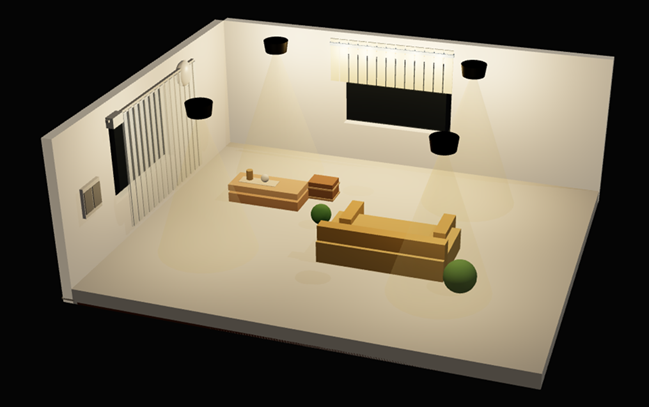
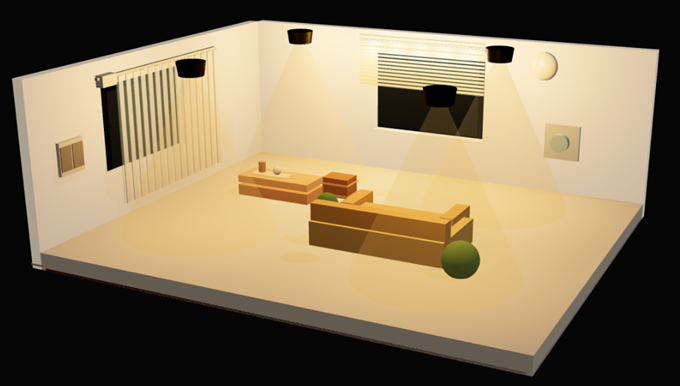
update for sunstar6

diff --git a/academy-business.html b/academy-business.html
@@ -31,7 +31,7 @@
     <nav class="nav"><div class="container"><a href="index.html" class="nav-logo">Sun<b>star</b></a><ul class="nav-menu" id="navMenu"><li><a href="index.html">회사소개</a></li><li><a href="sotolab.html">SotoLAB</a></li><li><a href="academy.html" class="active">아카데미</a></li></ul></div></nav>
     <section class="page-header"><div class="container"><div class="breadcrumb"><a href="index.html"><i class="fas fa-home"></i> Home</a><span>/</span><a href="academy.html">아카데미</a><span>/</span><span>IoT 사업자 교육</span></div><h1 class="page-title">IoT 사업자 교육</h1><p class="page-description">실제 사업 적용과 제안, 현장 설명, 시뮬레이터 활용까지 고려한 사업자 대상 창업 교육입니다.</p></div></section>
     <section class="philosophy-section"><div class="container"><div class="split-hero academy-split-hero"><div><span class="section-label">Business Course</span><h2 class="section-title">제안과 적용까지 함께 보는 사업자 대상 창업 교육</h2><p class="section-description">제품 이해에서 끝나지 않고, 설명, 제안, 시공 적용 관점과 시뮬레이터 활용까지 함께 정리하는 창업 과정입니다.</p><div class="academy-summary"><div class="academy-summary-item"><span>과정명</span><strong>IoT 사업자 교육</strong></div><div class="academy-summary-item"><span>시간</span><strong>14시간</strong></div><div class="academy-summary-item"><span>비용</span><strong>160만원</strong></div><div class="academy-summary-item"><span>구분</span><strong>창업과정</strong></div></div></div><div class="academy-hero-visual"><img src="img/academy-business-hero-generated.png" alt="IoT 사업자 교육 소개 이미지"><div class="academy-hero-caption"><strong>제안형 사업자 교육</strong><span>제품 이해부터 공간 제안, 설명 포인트 정리까지 연결하는 창업 과정입니다.</span></div></div></div></div></section>
-    <section class="online-course-section"><div class="container"><div class="lecture-blocks"><article class="lecture-block"><div class="lecture-top"><div><span class="course-category">Overview</span><h3 class="lecture-title">이 과정의 목적</h3></div><div class="lecture-meta"><strong>14H</strong><span>창업 과정</span></div></div><p class="lecture-summary">스마트홈키트뿐 아니라 매립조명, 간접조명, 조명 스위치, AI 센서까지 다루며 사업 현장에서 설명하고 제안할 수 있는 이해 수준을 만드는 데 초점을 둡니다. 여기에 시뮬레이터 화면을 함께 보며 공간 적용 이미지를 설명할 수 있는 감각까지 키웁니다.</p><div class="lecture-grid"><div class="lecture-item"><h4>추천 대상</h4><p>시공사, 사업자, 제안 담당자, 실무 적용 판단이 필요한 관리자</p></div><div class="lecture-item"><h4>진행 방식</h4><p>제품 구조 설명, 장치별 실습, 시뮬레이터 확인, 적용 시나리오 정리 순서로 진행</p></div><div class="lecture-item"><h4>기대 결과</h4><p>고객 설명과 내부 판단에 필요한 기술적 이해, 공간 적용 감각, 제안 흐름 확보</p></div><div class="lecture-item"><h4>활용 장면</h4><p>제안 미팅, 제품 설명, 사업 기획, 시공 적용 검토</p></div></div></article><article class="lecture-block"><div class="lecture-top"><div><span class="course-category">Curriculum</span><h3 class="lecture-title">주요 커리큘럼</h3></div><div class="lecture-meta"><strong>PRO</strong><span>창업 적용 중심</span></div></div><div class="academy-curriculum"><div class="academy-curriculum-step"><strong>1. 제품 이해</strong><p>장비별 역할과 적용 구조를 폭넓게 이해합니다.</p></div><div class="academy-curriculum-step"><strong>2. 조명/센서 실습</strong><p>조명과 센서를 연결하고 제어 흐름을 실습합니다.</p></div><div class="academy-curriculum-step"><strong>3. 시뮬레이터 설명 포인트</strong><p>평면도와 3D 화면을 활용해 고객이나 내부 팀에게 공간 적용 구조를 설명하는 방법을 익힙니다.</p></div><div class="academy-curriculum-step"><strong>4. 사업 적용</strong><p>제안, 설명, 시공 적용 관점에서 실제 활용 방향을 정리합니다.</p></div></div></article><article class="lecture-block"><div class="lecture-top"><div><span class="course-category">Simulator</span><h3 class="lecture-title">시뮬레이터 활용 안내</h3></div><div class="lecture-meta"><strong>SIM</strong><span>설명과 제안 보조</span></div></div><p class="lecture-summary">시뮬레이터는 제품을 나열해서 설명하는 수준을 넘어, 공간 안에서 장치가 어떻게 배치되고 작동하는지 시각적으로 설명할 수 있게 도와주는 도구입니다. 사업자 교육에서는 이 화면을 활용해 제안력과 설명력을 함께 높이는 데 초점을 둡니다.</p><div class="academy-simulator-grid"><div class="academy-simulator-card"><div class="academy-simulator-image"><img src="img/academy-simulator-plan.png" alt="IoT 시뮬레이터 평면도 화면"></div><div class="academy-simulator-copy"><h4>평면도 화면</h4><p>공간 구조와 장치 구성을 한눈에 보여주며 고객 설명과 내부 검토에 활용할 수 있습니다.</p></div></div><div class="academy-simulator-card"><div class="academy-simulator-image"><img src="img/academy-simulator-3d.png" alt="IoT 시뮬레이터 3D 공간 화면"></div><div class="academy-simulator-copy"><h4>3D 공간 화면</h4><p>조명 연출과 적용 이미지를 입체적으로 보여줘 제안의 설득력을 높이는 데 도움이 됩니다.</p></div></div></div></article></div></div></section>
+    <section class="online-course-section"><div class="container"><div class="lecture-blocks"><article class="lecture-block"><div class="lecture-top"><div><span class="course-category">Overview</span><h3 class="lecture-title">이 과정의 목적</h3></div><div class="lecture-meta"><strong>14H</strong><span>창업 과정</span></div></div><p class="lecture-summary">스마트홈키트뿐 아니라 매립조명, 간접조명, 조명 스위치, AI 센서까지 다루며 사업 현장에서 설명하고 제안할 수 있는 이해 수준을 만드는 데 초점을 둡니다. 여기에 시뮬레이터 화면을 함께 보며 공간 적용 이미지를 설명할 수 있는 감각까지 키웁니다.</p><div class="lecture-grid"><div class="lecture-item"><h4>추천 대상</h4><p>시공사, 사업자, 제안 담당자, 실무 적용 판단이 필요한 관리자</p></div><div class="lecture-item"><h4>진행 방식</h4><p>제품 구조 설명, 장치별 실습, 시뮬레이터 확인, 적용 시나리오 정리 순서로 진행</p></div><div class="lecture-item"><h4>기대 결과</h4><p>고객 설명과 내부 판단에 필요한 기술적 이해, 공간 적용 감각, 제안 흐름 확보</p></div><div class="lecture-item"><h4>활용 장면</h4><p>제안 미팅, 제품 설명, 사업 기획, 시공 적용 검토</p></div></div></article><article class="lecture-block"><div class="lecture-top"><div><span class="course-category">Curriculum</span><h3 class="lecture-title">주요 커리큘럼</h3></div><div class="lecture-meta"><strong>PRO</strong><span>창업 적용 중심</span></div></div><div class="academy-curriculum"><div class="academy-curriculum-step"><strong>1. 제품 이해</strong><p>장비별 역할과 적용 구조를 폭넓게 이해합니다.</p></div><div class="academy-curriculum-step"><strong>2. 조명/센서 실습</strong><p>조명과 센서를 연결하고 제어 흐름을 실습합니다.</p></div><div class="academy-curriculum-step"><strong>3. 시뮬레이터 설명 포인트</strong><p>평면도와 3D 화면을 활용해 고객이나 내부 팀에게 공간 적용 구조를 설명하는 방법을 익힙니다.</p></div><div class="academy-curriculum-step"><strong>4. 사업 적용</strong><p>제안, 설명, 시공 적용 관점에서 실제 활용 방향을 정리합니다.</p></div></div></article><article class="lecture-block"><div class="lecture-top"><div><span class="course-category">Simulator</span><h3 class="lecture-title">시뮬레이터 활용 안내</h3></div><div class="lecture-meta"><strong>SIM</strong><span>설명과 제안 보조</span></div></div><p class="lecture-summary">시뮬레이터는 제품을 나열해서 설명하는 수준을 넘어, 공간 안에서 장치가 어떻게 배치되고 작동하는지 시각적으로 설명할 수 있게 도와주는 도구입니다. 사업자 교육에서는 이 화면을 활용해 제안력과 설명력을 함께 높이는 데 초점을 둡니다.</p><div class="academy-simulator-grid"><div class="academy-simulator-card"><div class="academy-simulator-image"><img src="img/academy-simulator-plan.png" alt="IoT 시뮬레이터 평면도 화면"></div><div class="academy-simulator-copy"><h4>평면도 화면</h4><p>공간 구조와 장치 구성을 한눈에 보여주며 고객 설명과 내부 검토에 활용할 수 있습니다.</p></div></div><div class="academy-simulator-card"><div class="academy-simulator-image"><img src="img/academy-simulator-3d.png" alt="IoT 시뮬레이터 3D 공간 화면"></div><div class="academy-simulator-copy"><h4>3D 공간 화면</h4><p>조명 연출과 적용 이미지를 입체적으로 보여줘 제안의 설득력을 높이는 데 도움이 됩니다.</p></div></div><div class="academy-simulator-card"><div class="academy-simulator-image"><img src="img/academy-simulator-3d-alt.png" alt="IoT 시뮬레이터 3D 공간 정면 화면"></div><div class="academy-simulator-copy"><h4>3D 정면 화면</h4><p>정면 시점에서 공간 전체 구성과 조명 효과를 보여줘 제안 설명의 설득력을 높여줍니다.</p></div></div><div class="academy-simulator-card"><div class="academy-simulator-image"><img src="img/academy-simulator-lighting-example.png" alt="IoT 시뮬레이터 색온도와 밝기 조절 예시 화면"></div><div class="academy-simulator-copy"><h4>색온도·밝기 조절 예시</h4><p>조명의 밝기와 색온도를 어떻게 조절할 수 있는지 예시로 보여주며, 공간 연출 설명을 더 설득력 있게 도와줍니다.</p></div></div></div></article></div></div></section>
     <section class="reviews-section"><div class="container"><div class="section-header"><span class="section-label">Review</span><h2 class="section-title">먼저 교육을 수강하신 분 후기</h2><p class="section-description">사업자 과정은 제품 이해를 넘어 설명, 제안, 적용 관점까지 함께 다루기 때문에 실무 활용도가 높다는 후기가 많습니다.</p></div><div class="course-grid"><article class="review-card compact featured"><div class="review-header"><div class="review-avatar">A</div><div class="review-meta"><strong>시공사 대표</strong><p>창업 준비 후기</p></div><span class="review-badge review-stars" aria-label="5점 만점">★★★★★</span></div><p class="review-summary">제품만 아는 수준에서 벗어나 실제로 어떻게 설명하고 제안해야 하는지 흐름이 잡혔습니다. 단순 교육이 아니라 사업 관점으로 정리해줘서 훨씬 도움이 됐습니다.</p></article><article class="review-card compact"><div class="review-header"><div class="review-avatar">B</div><div class="review-meta"><strong>제안 담당자</strong><p>고객 설명 목적 수강</p></div><span class="review-badge review-stars" aria-label="5점 만점">★★★★★</span></div><p class="review-summary">시뮬레이터 화면을 함께 보며 설명하는 방식이 특히 인상적이었습니다. 고객에게 공간 적용 이미지를 보여주며 이야기할 수 있는 감각이 생겼습니다.</p></article><article class="review-card compact"><div class="review-header"><div class="review-avatar">C</div><div class="review-meta"><strong>사업 운영 관리자</strong><p>내부 검토 기준 수립</p></div><span class="review-badge review-stars" aria-label="5점 만점">★★★★★</span></div><p class="review-summary">장치별 기능 설명만이 아니라 어떤 방식으로 적용 판단을 해야 하는지까지 정리돼서 좋았습니다. 내부 팀과 논의할 기준이 훨씬 선명해졌습니다.</p></article><article class="review-card compact"><div class="review-header"><div class="review-avatar">D</div><div class="review-meta"><strong>창업 준비자</strong><p>비전공 수강 후기</p></div><span class="review-badge review-stars" aria-label="5점 만점">★★★★★</span></div><p class="review-summary">처음엔 어렵게 느껴졌지만, 제품 실습과 시뮬레이터 설명이 같이 가니까 이해가 훨씬 쉬웠습니다. 실제 사업 설명을 어떻게 해야 할지 감이 생겼습니다.</p></article></div></div></section>
     <section class="faq-section"><div class="container"><div class="section-header"><span class="section-label">FAQ</span><h2 class="section-title">자주 묻는 질문</h2><p class="section-description">사업자 과정 상담 전에 가장 많이 확인하시는 내용을 먼저 정리했습니다.</p></div><div class="faq-list"><div class="faq-item"><button class="faq-question" type="button" aria-expanded="true"><span>비전공자도 창업 과정 수강이 가능한가요?</span><i class="fas fa-plus"></i></button><div class="faq-answer"><p>가능합니다. 기술 설명을 어렵게 풀기보다, 제품 이해와 제안 흐름을 실제 사업 관점에서 연결해드리는 방식으로 진행합니다.</p></div></div><div class="faq-item"><button class="faq-question" type="button" aria-expanded="true"><span>이 과정은 창업 준비 단계에서도 도움이 되나요?</span><i class="fas fa-plus"></i></button><div class="faq-answer"><p>네. 어떤 장치를 어떤 방식으로 이해하고 설명해야 하는지 기준을 잡는 데 도움이 됩니다. 제품 나열이 아니라 제안 흐름을 정리하는 데 초점이 있습니다.</p></div></div><div class="faq-item"><button class="faq-question" type="button" aria-expanded="true"><span>시뮬레이터는 사업자 교육에서 어떻게 활용되나요?</span><i class="fas fa-plus"></i></button><div class="faq-answer"><p>평면도와 3D 화면을 통해 공간 안에서 장치가 어떻게 적용되는지 보여주는 설명 도구로 활용합니다. 고객 제안이나 내부 검토 시 설득력을 높이는 데 효과적입니다.</p></div></div><div class="faq-item"><button class="faq-question" type="button" aria-expanded="true"><span>조명과 센서까지 실제로 다뤄보나요?</span><i class="fas fa-plus"></i></button><div class="faq-answer"><p>네. 스마트홈키트뿐 아니라 매립조명, 간접조명, 조명 스위치, AI 센서까지 포함해 실습과 설명 포인트를 함께 다룹니다.</p></div></div></div></div></section>
     <section class="cta-banner"><div class="container"><div class="cta-inline"><div><h3>사업 적용까지 함께 봐야 하나요?</h3><p>문의하시면 사업자 교육이 맞는지, 어떤 대상자부터 들으면 좋을지 바로 정리해드립니다.</p></div><a href="https://open.kakao.com/o/sK8hYXfb" class="btn btn-primary" target="_blank" rel="noopener noreferrer">문의하기</a></div></div></section>

diff --git a/academy-visit.html b/academy-visit.html
@@ -31,7 +31,7 @@
     <nav class="nav"><div class="container"><a href="index.html" class="nav-logo">Sun<b>star</b></a><ul class="nav-menu" id="navMenu"><li><a href="index.html">회사소개</a></li><li><a href="sotolab.html">SotoLAB</a></li><li><a href="academy.html" class="active">아카데미</a></li></ul></div></nav>
     <section class="page-header"><div class="container"><div class="breadcrumb"><a href="index.html"><i class="fas fa-home"></i> Home</a><span>/</span><a href="academy.html">아카데미</a><span>/</span><span>IoT 방문 교육</span></div><h1 class="page-title">IoT 방문 교육</h1><p class="page-description">사업장에 설치된 실제 장치를 중심으로 배우고, 시뮬레이터로 공간 구성까지 함께 확인하는 방문형 교육입니다.</p></div></section>
     <section class="philosophy-section"><div class="container"><div class="split-hero academy-split-hero"><div><span class="section-label">Visit Course</span><h2 class="section-title">설치된 현장을 기준으로 바로 이해하는 방문 교육</h2><p class="section-description">사업장에 설치된 장치를 중심으로 교육을 진행해 이해 속도가 빠르고, 시뮬레이터 화면으로 공간 구성과 적용 방향까지 함께 정리할 수 있습니다.</p><div class="academy-summary"><div class="academy-summary-item"><span>과정명</span><strong>IoT 방문 교육</strong></div><div class="academy-summary-item"><span>시간</span><strong>6시간</strong></div><div class="academy-summary-item"><span>비용</span><strong>90만원</strong></div><div class="academy-summary-item"><span>구분</span><strong>컨설팅 포함</strong></div></div></div><div class="academy-hero-visual"><img src="img/academy-visit-hero-generated.png" alt="IoT 방문 교육 소개 이미지"><div class="academy-hero-caption"><strong>현장 중심 방문 교육</strong><span>설치된 장치를 기준으로 실제 운영 흐름과 공간 적용을 바로 이해하는 과정입니다.</span></div></div></div></div></section>
-    <section class="online-course-section"><div class="container"><div class="lecture-blocks"><article class="lecture-block"><div class="lecture-top"><div><span class="course-category">Overview</span><h3 class="lecture-title">이 과정이 필요한 경우</h3></div><div class="lecture-meta"><strong>6H</strong><span>현장 방문 진행</span></div></div><p class="lecture-summary">이미 설치된 장치를 기준으로 직원 교육이나 운영 점검이 필요한 경우에 적합합니다. 현장 환경에서 바로 설명하고 질문할 수 있어 실제 이해와 적용 속도가 빨라지며, 시뮬레이터로 공간 구성을 함께 보면 팀의 공통 이해를 더 빠르게 맞출 수 있습니다.</p><div class="lecture-grid"><div class="lecture-item"><h4>추천 대상</h4><p>현장 운영자, 관리자, 설치 장치 이해가 필요한 실무 담당자</p></div><div class="lecture-item"><h4>진행 방식</h4><p>현장 방문 후 장치 구성 점검, 제어 설명, 시뮬레이터 확인, 실사용 기준 컨설팅 진행</p></div><div class="lecture-item"><h4>기대 결과</h4><p>현재 설치된 장비의 구조와 운영 흐름, 공간 적용 이미지를 팀이 공통으로 이해</p></div><div class="lecture-item"><h4>활용 장면</h4><p>현장 교육, 운영 인수인계, 장비 사용 안정화, 개선 상담</p></div></div></article><article class="lecture-block"><div class="lecture-top"><div><span class="course-category">Curriculum</span><h3 class="lecture-title">주요 커리큘럼</h3></div><div class="lecture-meta"><strong>FIELD</strong><span>현장 기준 설명</span></div></div><div class="academy-curriculum"><div class="academy-curriculum-step"><strong>1. 현장 장치 이해</strong><p>설치 장치 구성과 연결 구조를 현장에서 직접 확인합니다.</p></div><div class="academy-curriculum-step"><strong>2. 제어 점검</strong><p>실제 운영 기준의 제어 방식과 사용 흐름을 함께 점검합니다.</p></div><div class="academy-curriculum-step"><strong>3. 시뮬레이터 확인</strong><p>평면 구조와 3D 공간 화면을 보며 장치가 공간 안에서 어떻게 적용되는지 함께 이해합니다.</p></div><div class="academy-curriculum-step"><strong>4. 현장 컨설팅</strong><p>개선 포인트와 적용 방향을 상담 형태로 함께 정리합니다.</p></div></div></article><article class="lecture-block"><div class="lecture-top"><div><span class="course-category">Simulator</span><h3 class="lecture-title">시뮬레이터 활용 안내</h3></div><div class="lecture-meta"><strong>SIM</strong><span>공간 이해 보조</span></div></div><p class="lecture-summary">시뮬레이터는 현장 장치를 단순히 설명하는 데서 끝나지 않고, 실제 공간 안에서 어떻게 배치되고 적용되는지를 시각적으로 이해하도록 도와주는 보조 도구입니다.</p><div class="academy-simulator-grid"><div class="academy-simulator-card"><div class="academy-simulator-image"><img src="img/academy-simulator-plan.png" alt="IoT 시뮬레이터 평면도 화면"></div><div class="academy-simulator-copy"><h4>평면도 화면</h4><p>방, 복도, 거실, 주방 등 공간 구조를 기준으로 장치 배치와 제어 구성을 함께 이해할 수 있습니다.</p></div></div><div class="academy-simulator-card"><div class="academy-simulator-image"><img src="img/academy-simulator-3d.png" alt="IoT 시뮬레이터 3D 공간 화면"></div><div class="academy-simulator-copy"><h4>3D 공간 화면</h4><p>실제 공간 느낌으로 조명과 장치 반응을 확인해 현장 설명과 적용 감각을 높여줍니다.</p></div></div></div></article></div></div></section>
+    <section class="online-course-section"><div class="container"><div class="lecture-blocks"><article class="lecture-block"><div class="lecture-top"><div><span class="course-category">Overview</span><h3 class="lecture-title">이 과정이 필요한 경우</h3></div><div class="lecture-meta"><strong>6H</strong><span>현장 방문 진행</span></div></div><p class="lecture-summary">이미 설치된 장치를 기준으로 직원 교육이나 운영 점검이 필요한 경우에 적합합니다. 현장 환경에서 바로 설명하고 질문할 수 있어 실제 이해와 적용 속도가 빨라지며, 시뮬레이터로 공간 구성을 함께 보면 팀의 공통 이해를 더 빠르게 맞출 수 있습니다.</p><div class="lecture-grid"><div class="lecture-item"><h4>추천 대상</h4><p>현장 운영자, 관리자, 설치 장치 이해가 필요한 실무 담당자</p></div><div class="lecture-item"><h4>진행 방식</h4><p>현장 방문 후 장치 구성 점검, 제어 설명, 시뮬레이터 확인, 실사용 기준 컨설팅 진행</p></div><div class="lecture-item"><h4>기대 결과</h4><p>현재 설치된 장비의 구조와 운영 흐름, 공간 적용 이미지를 팀이 공통으로 이해</p></div><div class="lecture-item"><h4>활용 장면</h4><p>현장 교육, 운영 인수인계, 장비 사용 안정화, 개선 상담</p></div></div></article><article class="lecture-block"><div class="lecture-top"><div><span class="course-category">Curriculum</span><h3 class="lecture-title">주요 커리큘럼</h3></div><div class="lecture-meta"><strong>FIELD</strong><span>현장 기준 설명</span></div></div><div class="academy-curriculum"><div class="academy-curriculum-step"><strong>1. 현장 장치 이해</strong><p>설치 장치 구성과 연결 구조를 현장에서 직접 확인합니다.</p></div><div class="academy-curriculum-step"><strong>2. 제어 점검</strong><p>실제 운영 기준의 제어 방식과 사용 흐름을 함께 점검합니다.</p></div><div class="academy-curriculum-step"><strong>3. 시뮬레이터 확인</strong><p>평면 구조와 3D 공간 화면을 보며 장치가 공간 안에서 어떻게 적용되는지 함께 이해합니다.</p></div><div class="academy-curriculum-step"><strong>4. 현장 컨설팅</strong><p>개선 포인트와 적용 방향을 상담 형태로 함께 정리합니다.</p></div></div></article><article class="lecture-block"><div class="lecture-top"><div><span class="course-category">Simulator</span><h3 class="lecture-title">시뮬레이터 활용 안내</h3></div><div class="lecture-meta"><strong>SIM</strong><span>공간 이해 보조</span></div></div><p class="lecture-summary">시뮬레이터는 현장 장치를 단순히 설명하는 데서 끝나지 않고, 실제 공간 안에서 어떻게 배치되고 적용되는지를 시각적으로 이해하도록 도와주는 보조 도구입니다.</p><div class="academy-simulator-grid"><div class="academy-simulator-card"><div class="academy-simulator-image"><img src="img/academy-simulator-plan.png" alt="IoT 시뮬레이터 평면도 화면"></div><div class="academy-simulator-copy"><h4>평면도 화면</h4><p>방, 복도, 거실, 주방 등 공간 구조를 기준으로 장치 배치와 제어 구성을 함께 이해할 수 있습니다.</p></div></div><div class="academy-simulator-card"><div class="academy-simulator-image"><img src="img/academy-simulator-3d.png" alt="IoT 시뮬레이터 3D 공간 화면"></div><div class="academy-simulator-copy"><h4>3D 공간 화면</h4><p>실제 공간 느낌으로 조명과 장치 반응을 확인해 현장 설명과 적용 감각을 높여줍니다.</p></div></div><div class="academy-simulator-card"><div class="academy-simulator-image"><img src="img/academy-simulator-3d-alt.png" alt="IoT 시뮬레이터 3D 공간 정면 화면"></div><div class="academy-simulator-copy"><h4>3D 정면 화면</h4><p>정면 각도에서 공간과 조명 연출을 함께 보며 현장 설명의 이해도를 더 높일 수 있습니다.</p></div></div><div class="academy-simulator-card"><div class="academy-simulator-image"><img src="img/academy-simulator-lighting-example.png" alt="IoT 시뮬레이터 색온도와 밝기 조절 예시 화면"></div><div class="academy-simulator-copy"><h4>색온도·밝기 조절 예시</h4><p>밝기와 색온도를 바꿨을 때 같은 공간이 어떻게 다르게 느껴지는지 시각적으로 비교하며 설명할 수 있습니다.</p></div></div></div></article></div></div></section>
     <section class="reviews-section"><div class="container"><div class="section-header"><span class="section-label">Review</span><h2 class="section-title">먼저 교육을 수강하신 분 후기</h2><p class="section-description">방문 교육은 실제 설치 환경을 기준으로 진행되기 때문에, 설명이 바로 현장에 연결된다는 점에서 만족도가 높습니다.</p></div><div class="course-grid"><article class="review-card compact featured"><div class="review-header"><div class="review-avatar">A</div><div class="review-meta"><strong>현장 운영 관리자</strong><p>운영 인수인계 후기</p></div><span class="review-badge review-stars" aria-label="5점 만점">★★★★★</span></div><p class="review-summary">설치된 장치를 현장에서 바로 보면서 설명을 들으니 훨씬 이해가 빨랐습니다. 직원들끼리 다르게 알고 있던 사용 기준도 한 번에 정리됐습니다.</p></article><article class="review-card compact"><div class="review-header"><div class="review-avatar">B</div><div class="review-meta"><strong>시설 담당자</strong><p>장치 이해 목적 수강</p></div><span class="review-badge review-stars" aria-label="5점 만점">★★★★★</span></div><p class="review-summary">문서로만 봤을 때는 헷갈렸던 부분을 실제 장치 기준으로 짚어줘서 좋았습니다. 시뮬레이터 화면까지 같이 보니 공간 전체 흐름이 더 잘 보였습니다.</p></article><article class="review-card compact"><div class="review-header"><div class="review-avatar">C</div><div class="review-meta"><strong>대표</strong><p>현장 점검 겸 수강</p></div><span class="review-badge review-stars" aria-label="5점 만점">★★★★★</span></div><p class="review-summary">교육과 컨설팅이 같이 진행돼서 단순 설명으로 끝나지 않았습니다. 현재 상태에서 무엇을 더 정리해야 할지도 함께 볼 수 있어 실용적이었습니다.</p></article><article class="review-card compact"><div class="review-header"><div class="review-avatar">D</div><div class="review-meta"><strong>설치 실무 담당자</strong><p>실사용 기준 후기</p></div><span class="review-badge review-stars" aria-label="5점 만점">★★★★★</span></div><p class="review-summary">현장 기준으로 바로 질문하고 답을 들을 수 있어 답답함이 없었습니다. 실제 운영 흐름과 설명 포인트를 함께 정리할 수 있어 도움이 됐습니다.</p></article></div></div></section>
     <section class="faq-section"><div class="container"><div class="section-header"><span class="section-label">FAQ</span><h2 class="section-title">자주 묻는 질문</h2><p class="section-description">방문 교육 상담 전에 가장 많이 확인하시는 내용을 먼저 정리했습니다.</p></div><div class="faq-list"><div class="faq-item"><button class="faq-question" type="button" aria-expanded="true"><span>반드시 현장에 설치된 장치가 있어야 하나요?</span><i class="fas fa-plus"></i></button><div class="faq-answer"><p>설치된 장치가 있는 경우 가장 효과적입니다. 다만 현재 준비 상태에 따라 어떤 과정이 더 적합한지 상담 후 조정할 수 있습니다.</p></div></div><div class="faq-item"><button class="faq-question" type="button" aria-expanded="true"><span>방문 교육은 어떤 점이 가장 다른가요?</span><i class="fas fa-plus"></i></button><div class="faq-answer"><p>실제 사업장 환경에서 바로 설명하고 점검할 수 있다는 점이 가장 큰 차이입니다. 문서나 이론보다 훨씬 빠르게 공통 이해를 맞출 수 있습니다.</p></div></div><div class="faq-item"><button class="faq-question" type="button" aria-expanded="true"><span>시뮬레이터는 방문 교육에서 어떻게 활용되나요?</span><i class="fas fa-plus"></i></button><div class="faq-answer"><p>평면도와 3D 화면을 함께 보며 장치가 공간 안에서 어떤 구조로 적용되는지 설명하는 데 활용합니다. 팀 내 이해를 맞추는 데 특히 효과적입니다.</p></div></div><div class="faq-item"><button class="faq-question" type="button" aria-expanded="true"><span>컨설팅은 어디까지 포함되나요?</span><i class="fas fa-plus"></i></button><div class="faq-answer"><p>현재 설치 장치의 이해, 운영 흐름 점검, 개선 포인트 정리까지 포함됩니다. 보다 깊은 프로젝트 범위는 별도 상담을 통해 조율합니다.</p></div></div></div></div></section>
     <section class="cta-banner"><div class="container"><div class="cta-inline"><div><h3>현장 기준 교육이 필요한가요?</h3><p>문의하시면 방문 교육 가능 범위와 일정부터 현실적으로 정리해드립니다.</p></div><a href="https://open.kakao.com/o/sK8hYXfb" class="btn btn-primary" target="_blank" rel="noopener noreferrer">문의하기</a></div></div></section>

diff --git a/academy-special.html b/academy-special.html
@@ -237,6 +237,33 @@
                                 <p>조명 연출과 공간 반응을 입체적으로 보면서 실제 적용 전 결과를 직관적으로 확인할 수 있습니다.</p>
                             </div>
                         </div>
+                        <div class="academy-simulator-card">
+                            <div class="academy-simulator-image">
+                                <img src="img/academy-simulator-3d-alt.png" alt="IoT 시뮬레이터 3D 공간 정면 화면">
+                            </div>
+                            <div class="academy-simulator-copy">
+                                <h4>3D 정면 화면</h4>
+                                <p>정면 시점으로 공간 전체 구성과 조명 연출을 함께 보며 시뮬레이터 결과를 더 직관적으로 확인할 수 있습니다.</p>
+                            </div>
+                        </div>
+                        <div class="academy-simulator-card">
+                            <div class="academy-simulator-image">
+                                <img src="img/academy-simulator-lighting-example.png" alt="IoT 시뮬레이터 색온도와 밝기 조절 예시 화면">
+                            </div>
+                            <div class="academy-simulator-copy">
+                                <h4>색온도·밝기 조절 예시</h4>
+                                <p>같은 공간에서도 조명의 밝기와 색온도를 다르게 적용해 분위기와 사용감을 어떻게 바꿀 수 있는지 예시로 확인할 수 있습니다.</p>
+                            </div>
+                        </div>
+                        <div class="academy-simulator-card">
+                            <div class="academy-simulator-image">
+                                <img src="img/academy-simulator-lighting-example.png" alt="IoT 시뮬레이터 색온도와 밝기 조절 예시 화면">
+                            </div>
+                            <div class="academy-simulator-copy">
+                                <h4>색온도와 밝기 조절한 예시</h4>
+                                <p>공간 안에서 조명의 밝기와 색온도를 바꿔보며 실제 분위기 변화가 어떻게 보이는지 시뮬레이터로 바로 확인할 수 있습니다.</p>
+                            </div>
+                        </div>
                     </div>
                 </article>
 
